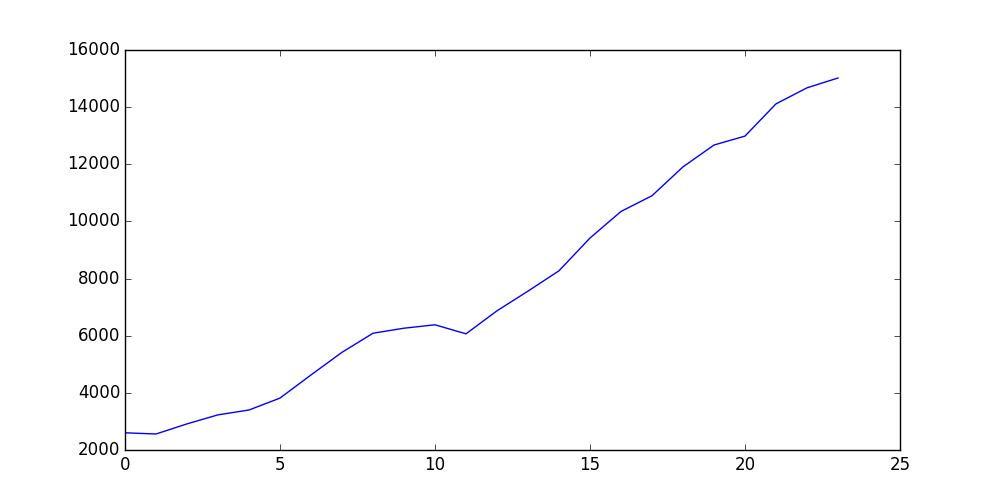
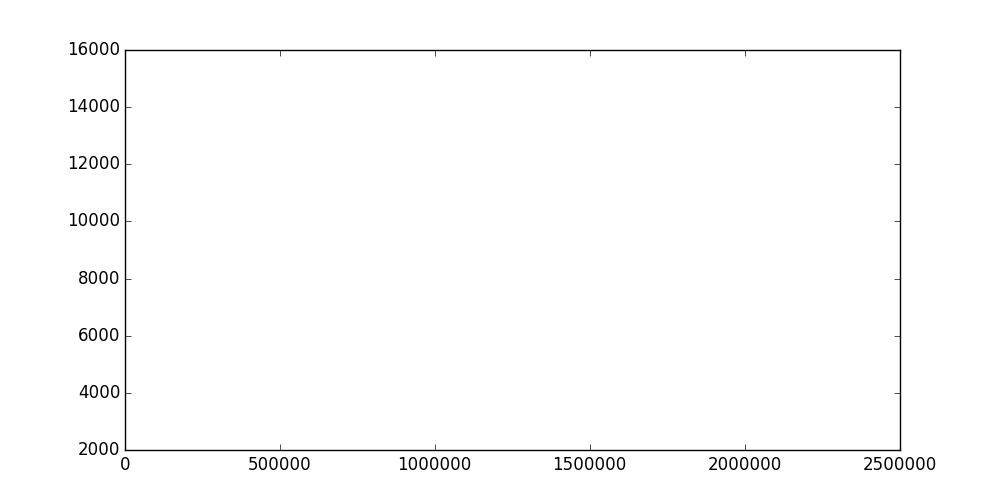
Update to Time Series assignment, and first check in for the citibike analysis

diff --git a/citibike.py b/citibike.py
@@ -1,0 +1,210 @@
+import sqlite3 as lite
+import time # datetime objects
+import collections
+import matplotlib.pyplot as plt
+import requests as rq
+import pandas as pd
+import time
+from pandas.io.json import json_normalize
+from dateutil.parser import parse # parse string into Python datetime object
+import itertools
+import sys
+
+
+####### HELPER FUNCTIONS ###########
+
+# Download bike data
+def download_bike_data():
+    return rq.get('http://www.citibikenyc.com/stations/json')
+
+
+# As database columns cannot start with a number we normalize it by prefixing an underscore
+def process_station_ids(df_ids):
+    station_ids = df_ids.tolist() # df['id']
+    
+    #add the '_' to the station name and also add the data type for SQLite
+    return ['_' + str(x) + ' INT' for x in station_ids]
+
+'''
+    Parse the execution time to update the database
+'''
+def process_exec_time(exec_time):
+    # Parse the execution time to something the DB would be able to interprete
+    return exec_time.strftime('%s')
+
+'''
+    Extraction execution time from json file
+'''
+def get_execution_time(req):
+    return parse(req.json()['executionTime'])
+
+# Process available bikes by station id
+def create_station_to_bike_dic(stationList_json):
+    # Dictionary to store available bikes by station
+    id_bikes = collections.defaultdict(int) 
+    
+    for station in stationList_json: # req.json()['stationBeanList']:
+        id_bikes[station['id']] = station['availableBikes']
+    
+    return id_bikes
+
+# Plot and save histogram of a column
+def plot_and_save_hist(df, column_name, output_dir, fig_name, output_format, fig_no = 0):
+    path_to_fig = str(output_dir) + '/' + str(fig_name)
+    print "     ==> Saving {}_{}.{} for run: {}".format(path_to_fig, fig_no, output_format, fig_no)
+    plt.figure()
+    df[column_name].hist()
+    plt.savefig("{}_{}.{}".format(path_to_fig, fig_no, output_format))
+    plt.clf()
+
+# Connect to DB
+def connect_db():
+    # Connect to the database
+    return lite.connect('citi_bike.db')
+    
+
+'''
+    Terminal spinning cursor simulator
+'''
+def spinning_cursor(time_to_wait):
+    spinner = itertools.cycle(['-', '/', '|', '\\'])
+    for _ in range(time_to_wait):
+        sys.stdout.write(spinner.next())
+        sys.stdout.flush()
+        time.sleep(1)
+        sys.stdout.write('\b')
+
+######### MAIN FUNCTIONS #################
+
+'''
+    Return the Station Bean List json data object
+'''
+def get_stationlist_info_json(req):
+    return req.json()['stationBeanList']
+
+'''
+    Return the station bean list column names
+'''
+def get_stationdata_keylist(req):
+    return req.json()['stationBeanList'][0].keys()
+
+'''
+    Return the citibike data keys to observe data
+'''
+def get_citibike_data_keys(req):
+    return req.json().keys() # [u'executionTime', u'stationBeanList']
+    
+'''
+    Normalize the Station Bean List
+'''
+def normalized_stationbean_data(req):
+    '''
+        Take the semi-structured json and flatten it to a dataframe table
+        would also work with straight DataFrame passing the json column as arg.
+    ''' 
+    return json_normalize(get_stationlist_info_json(req)) # returns a df with the station bean list
+
+'''
+    Output informational keys in the data
+'''
+def output_data_keys(req):
+    # Set the keys of the data
+    print "Citibike data keys: \n", get_citibike_data_keys(req)
+
+    # Get the column names for our database
+    print "Station Data columns: \n", get_stationdata_keylist(req)
+    
+
+'''
+    Create Reference and changing tables.
+'''
+def create_tables(df_ids):
+    # Connect to the database
+    con = connect_db()
+    cur = con.cursor()
+    station_ids = process_station_ids(df_ids)
+    
+    # Create table citibike_reference
+    with con:
+        # Drop existing tables
+        cur.execute("DROP TABLE IF EXISTS citibike_reference")
+        cur.execute("DROP TABLE IF EXISTS available_bikes")
+        
+        # Create reference and changing tables table
+        cur.execute('CREATE TABLE citibike_reference (id INT PRIMARY KEY, totalDocks INT, city TEXT, altitude INT, stAddress1 TEXT, stAddress2 TEXT, longitude NUMERIC, latitude NUMERIC, postalCode TEXT, testStation TEXT, stationName TEXT, landMark TEXT, location TEXT )')
+        
+        cur.execute("CREATE TABLE available_bikes ( execution_time INT, " +  ", ".join(station_ids) + ");")
+
+
+
+'''
+    Bulk insert into citibike reference table.
+'''
+def bulk_insert_citibike_ref_table():
+    # Connect to the database
+    con = connect_db()
+    cur = con.cursor()
+    
+    #a prepared SQL statement we're going to execute over and over again
+    sql = "INSERT INTO citibike_reference (id, totalDocks, city, altitude, stAddress1, stAddress2, longitude, latitude, postalCode, testStation, stationName, landMark, location) VALUES (?,?,?,?,?,?,?,?,?,?,?,?,?)"
+
+    #for loop to populate values in the database
+    with con:
+        for station in req.json()['stationBeanList']:
+            cur.execute(sql,(station['id'],station['totalDocks'],station['city'],station['altitude'],station['stAddress1'],station['stAddress2'],station['longitude'],station['latitude'],station['postalCode'],station['testStation'],station['stationName'],station['landMark'],station['location']))
+        
+
+'''
+    Bulk insert into changing available bikes table
+'''
+def insert_update_available_bike_table(exec_time, station_bean_list):
+    # Connect to the database
+    con = connect_db()
+    cur = con.cursor()
+    
+    # Get stationlist dictionary of ids to available bikes
+    id_bikes = create_station_to_bike_dic(station_bean_list)
+    
+    # Insert execution time and then iterate through the defaultdict to update the values in the database
+    with con:
+        cur.execute('INSERT INTO available_bikes (execution_time) VALUES (?)', (process_exec_time(exec_time),))
+        for key, value in id_bikes.iteritems():
+            cur.execute('UPDATE available_bikes SET _' + str(key) + '=' + str(value) + ' WHERE execution_time = ' + process_exec_time(exec_time) + ';')
+
+            
+if __name__ == '__main__':
+            
+    # Create/Update database for one hour time window with 1 minute intervals.
+    for idx in xrange(1, 61):
+
+        # Download data
+        req = download_bike_data()
+
+        # Normalize Station List data
+        df_stationlist = normalized_stationbean_data(req)
+
+        # json data
+        json_stationlist = get_stationlist_info_json(req)
+
+        # Get execution time
+        exec_time = get_execution_time(req)
+
+        ''' Run inserts and updates '''
+        
+        # Create tables and bulk insert into reference table once.
+        if idx == 1:
+            output_data_keys(req) # For information purposes alone.
+            create_tables(df_stationlist['id'])
+            bulk_insert_citibike_ref_table()
+            
+        insert_update_available_bike_table(exec_time, json_stationlist)
+        
+        # Simple plots to observe data
+        print "PLOT AND SAVE IMAGES FOR RUN: {}".format(idx)
+        plot_and_save_hist(df_stationlist, 'availableBikes', 'figures/citibike', 'available_bikes', 'png', idx)
+        plot_and_save_hist(df_stationlist, 'totalDocks', 'figures/citibike', 'total_docks', 'png', idx)
+        plot_and_save_hist(df_stationlist, 'testStation', 'figures/citibike', 'test_station', 'png', idx)
+
+        
+        # Spinning cursor to wait for 60 seconds.
+        spinning_cursor(60)

diff --git a/U2L6_time_series.py b/U2L6_time_series.py
@@ -15,9 +15,11 @@ dfts = df.set_index('issue_d_format')
 year_month_summary = dfts.groupby(lambda x: x.year * 100 + x.month).count()
 loan_count_summary = year_month_summary['issue_d']
 
+#print len(loan_count_summary)
 # Plot the loan amount
 plt.figure(figsize = (10, 5))
 plt.plot(loan_count_summary)
+plt.xlim([0, 25 * (10 ** 5)])
 plt.savefig("raw_loan_cnt_summary.png")
 plt.clf()
 
